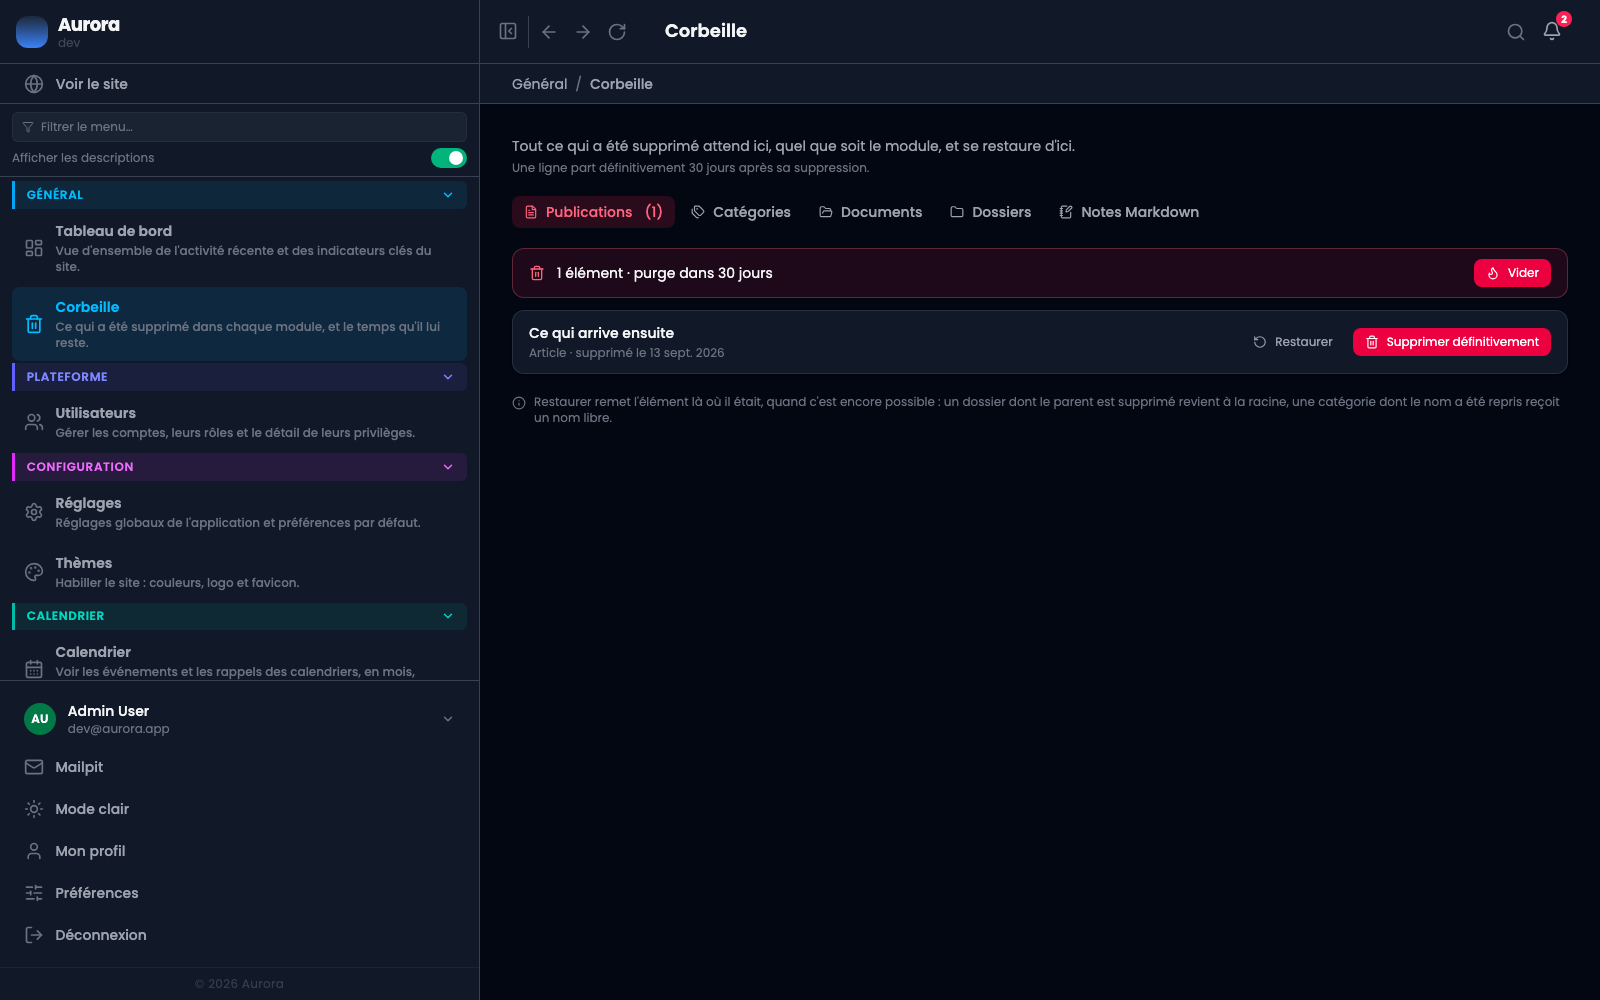
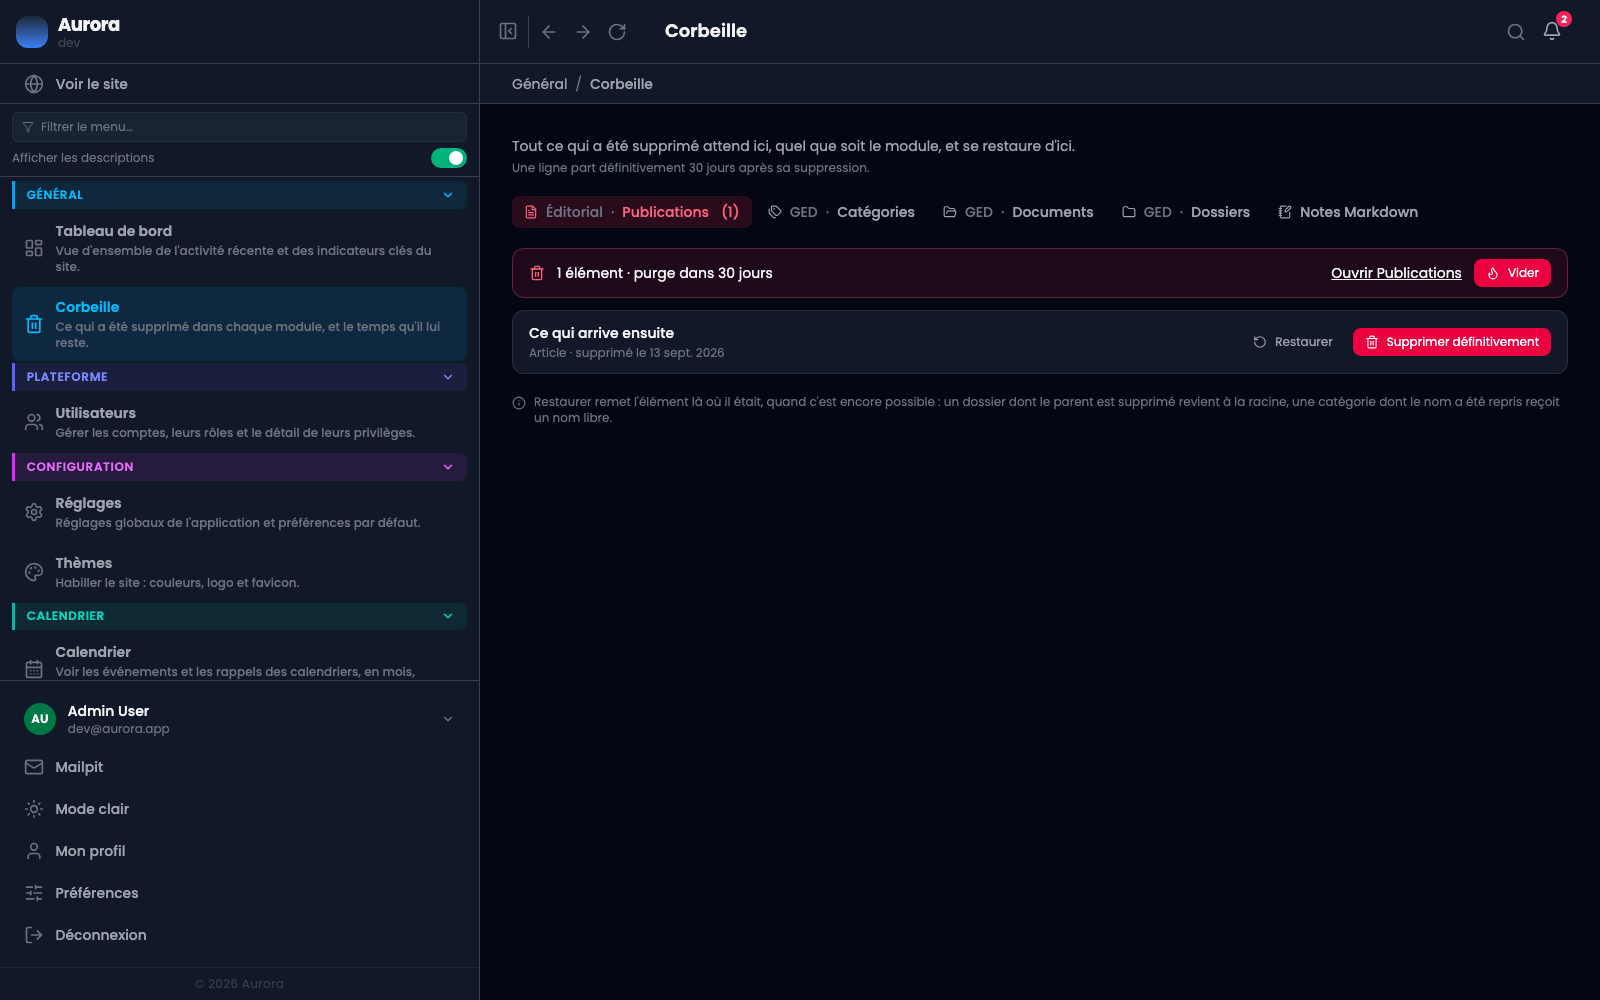
feat(trash): a tab says which module it belongs to, and links to it
Read out of context, "Dossiers" names three plausible things: the side
menu's section heading is what disambiguates it, and the trash screen
shows five trashes in a row without one. Each tab now carries its
section name, alias included, and drops it when it would repeat the
label.

The banner gained a link to the module's own list, which is the context
centralising the trash had taken away.

Changed region(s): [[0.3438, 0.186, 0.7812, 0.248], [0.8438, 0.248, 0.9062, 0.279], [0.8125, 0.186, 0.875, 0.217]]

diff --git a/src/Module/General/assets/backend/trash/TrashApp.vue b/src/Module/General/assets/backend/trash/TrashApp.vue
@@ -4,6 +4,8 @@ import { usePrivileges } from "@/shared/composables/usePrivileges.js";
 import AppTab from "@/shared/components/nav/AppTab.vue";
 import AppButton from "@/shared/components/action/AppButton.vue";
 import AppNoData from "@/shared/components/feedback/AppNoData.vue";
+import AppMessage from "@/shared/components/feedback/AppMessage.vue";
+import AppLink from "@/shared/components/nav/AppLink.vue";
 import AppModal from "@/shared/components/overlay/AppModal.vue";
 import AppModalFooter from "@/shared/components/overlay/AppModalFooter.vue";
 import { Trash2, RotateCcw, Flame, X, Info } from "lucide-vue-next";
@@ -81,7 +83,14 @@ function formatDate(value) {
                     v-on:click="select(row.key)"
                 >
                     <component :is="row.iconComponent" class="w-3.5 h-3.5" :stroke-width="2" />
-                    {{ t(row.labelKey) }}
+                    <!-- Le module avant ce qu'il contient : « Dossiers » seul
+                         pourrait nommer trois choses, et l'intitulé de section
+                         qui le désambiguïse dans le menu n'est pas ici. -->
+                    <template v-if="row.showSection">
+                        <span class="text-muted">{{ row.sectionLabel }}</span>
+                        <span class="text-muted">·</span>
+                    </template>
+                    {{ row.label }}
                     <span v-if="row.count" class="ml-1 tabular-nums">({{ row.count }})</span>
                 </AppTab>
             </nav>
@@ -99,18 +108,33 @@ function formatDate(value) {
                             </template>
                         </span>
                     </p>
+                    <!-- Dans le bandeau qui existe déjà, pas au-dessus : deux
+                         bandeaux l'un sur l'autre pour une liste de trois
+                         lignes seraient plus de mobilier que de contenu. -->
+                    <AppLink
+                        v-if="active.listPath"
+                        :href="active.listPath"
+                        class="ml-auto text-sm"
+                    >
+                        {{ t("backend.trash.open_list", { list: active.label }) }}
+                    </AppLink>
                     <AppButton
                         v-if="active.emptyTrashPath && active.count > 0 && mayAct(active)"
                         size="sm"
                         variant="danger"
-                        class="ml-auto"
+                        :class="active.listPath ? '' : 'ml-auto'"
                         v-on:click="askEmpty(active)"
                     >
                         <Flame class="w-3.5 h-3.5" :stroke-width="2" /> {{ t("backend.trash.empty") }}
                     </AppButton>
                 </div>
 
-                <AppNoData v-if="!active.items.length" :message="t('backend.trash.empty_one')" />
+                <AppMessage v-if="!active.items.length" variant="info">
+                    {{ t("backend.trash.empty_one") }}
+                    <AppLink v-if="active.listPath" :href="active.listPath" class="ml-1">
+                        {{ t("backend.trash.open_list", { list: active.label }) }}
+                    </AppLink>
+                </AppMessage>
 
                 <div v-else class="bg-surface border border-line/60 rounded-xl overflow-hidden shadow-sm divide-y divide-line/40">
                     <div

diff --git a/src/Module/General/assets/backend/trash/composables/useTrashOverview.js b/src/Module/General/assets/backend/trash/composables/useTrashOverview.js
@@ -30,11 +30,24 @@ export function useTrashOverview(props) {
     const emptying = ref(false);
 
     const rows = computed(() =>
-        trashes.value.map((trash) => ({
-            ...trash,
-            iconComponent: resolveNavIcon(trash.icon),
-            daysLeft: daysLeft(trash.oldestDeletedAt, props.retentionDays),
-        })),
+        trashes.value.map((trash) => {
+            const label = t(trash.labelKey);
+
+            return {
+                ...trash,
+                label,
+                iconComponent: resolveNavIcon(trash.icon),
+                daysLeft: daysLeft(trash.oldestDeletedAt, props.retentionDays),
+                // Le module devant ce qu'il contient, sauf quand il le répète :
+                // « Notes · Notes Markdown » dit deux fois la même chose, et le
+                // préfixe n'est là que pour lever une ambiguïté.
+                showSection:
+                    Boolean(trash.sectionLabel) &&
+                    !label
+                        .toLowerCase()
+                        .startsWith(String(trash.sectionLabel).toLowerCase()),
+            };
+        }),
     );
 
     const total = computed(() =>

diff --git a/src/Module/General/assets/backend/trash/composables/useTrashOverview.test.js b/src/Module/General/assets/backend/trash/composables/useTrashOverview.test.js
@@ -31,6 +31,8 @@ function props(overrides = {}) {
             {
                 key: "ged_documents",
                 labelKey: "backend.nav.documents",
+                sectionLabel: "GED",
+                listPath: "/backend/ged/documents",
                 icon: "folder-open",
                 count: 2,
                 oldestDeletedAt: new Date(Date.now() - 4 * DAY).toISOString(),
@@ -42,6 +44,8 @@ function props(overrides = {}) {
             {
                 key: "notes_markdown",
                 labelKey: "backend.nav.notes_markdown",
+                sectionLabel: "Notes",
+                listPath: "/backend/notes/markdown",
                 icon: "notebook-pen",
                 count: 0,
                 oldestDeletedAt: null,

diff --git a/src/Module/General/Trash/View/TrashViewBuilder.php b/src/Module/General/Trash/View/TrashViewBuilder.php
@@ -11,6 +11,7 @@ use Aurora\Core\Trash\TrashSummary;
 use Aurora\Module\Configuration\Setting\Enum\ApplicationParameterEnum;
 use Aurora\Module\Configuration\Setting\Repository\SettingRepository;
 use Aurora\Module\General\Trash\Service\TrashOverviewService;
+use Symfony\Contracts\Translation\TranslatorInterface;
 
 /**
  * The payload of the trash screen.
@@ -40,6 +41,7 @@ final readonly class TrashViewBuilder
         private ModuleAccessChecker $moduleAccessChecker,
         private SettingRepository $settingRepository,
         private PathTemplateGenerator $pathTemplates,
+        private TranslatorInterface $translator,
     ) {}
 
     /**
@@ -84,6 +86,11 @@ final readonly class TrashViewBuilder
         return [
             'key' => $summary->key,
             'labelKey' => $summary->labelKey,
+            // Translated here rather than sent as a key: the name of a section
+            // is whatever the installation renamed it to, and that alias lives
+            // in a setting the screen has no business reading.
+            'sectionLabel' => $this->sectionLabel($summary->sectionId),
+            'listPath' => $this->pathFor($summary->listRoute, withId: false),
             'icon' => $summary->icon,
             'count' => $summary->count,
             'oldestDeletedAt' => $summary->oldestDeletedAt?->format(DATE_ATOM),
@@ -108,6 +115,27 @@ final readonly class TrashViewBuilder
      * routes declare `id` as `\d+`, and generating one straight refuses while
      * the page is rendering - a 500 in place of the screen.
      */
+    /**
+     * What the side menu calls this section, alias included.
+     *
+     * The tab needs it because it is read out of context: under the menu's own
+     * heading "Dossiers" is unambiguous, and on a screen showing five trashes
+     * in a row it is not.
+     */
+    private function sectionLabel(string $sectionId): string
+    {
+        $aliases = json_decode(
+            $this->settingRepository->get(ApplicationParameterEnum::NavSectionAliases->value, '{}') ?? '{}',
+            true,
+        );
+
+        if (is_array($aliases) && isset($aliases[$sectionId]) && is_string($aliases[$sectionId]) && '' !== $aliases[$sectionId]) {
+            return $aliases[$sectionId];
+        }
+
+        return $this->translator->trans('backend.nav.sections.'.$sectionId);
+    }
+
     private function pathFor(?string $route, bool $withId = true): ?string
     {
         if (null === $route) {

diff --git a/tests/Integration/Module/General/TrashOverviewPageTest.php b/tests/Integration/Module/General/TrashOverviewPageTest.php
@@ -51,6 +51,41 @@ final class TrashOverviewPageTest extends IntegrationTestCase
         self::assertContains('notes_markdown', $keys);
     }
 
+    /**
+     * Each tab says which module it is talking about, and how to get there.
+     *
+     * "Dossiers" alone names three plausible things once the side menu's own
+     * heading is gone, and a reader who has just restored something wants the
+     * list it went back to.
+     */
+    public function testEachTabNamesItsModuleAndLinksToIt(): void
+    {
+        $rows = [];
+        foreach ($this->rowsByKey() as $key => $row) {
+            $rows[$key] = [$row['sectionLabel'], $row['listPath']];
+        }
+
+        self::assertSame(['GED', '/backend/ged/documents'], $rows['ged_folders']);
+        self::assertSame(['Éditorial', '/backend/editorial/posts'], $rows['editorial_posts']);
+        self::assertSame('Notes', $rows['notes_markdown'][0]);
+    }
+
+    /**
+     * @return array<string, array<string, mixed>>
+     */
+    private function rowsByKey(): array
+    {
+        $this->client->request('GET', '/backend/trash');
+        self::assertResponseIsSuccessful();
+
+        $rows = [];
+        foreach ($this->trashPayload() as $row) {
+            $rows[$row['key']] = $row;
+        }
+
+        return $rows;
+    }
+
     public function testSomethingDeletedIsCountedWithTheDateItFell(): void
     {
         $container = static::getContainer();

diff --git a/src/Core/Trash/TrashSummary.php b/src/Core/Trash/TrashSummary.php
@@ -17,6 +17,11 @@ use DateTimeImmutable;
  * The action routes are the module's own. The screen does not know how to
  * restore a document, and must not: it posts to the endpoint the module
  * already exposes, which is where the rules and the privileges live.
+ *
+ * `sectionId` is there because a tab is read out of context. In the side menu
+ * "Dossiers" sits under an intitulé that says which module it belongs to; on
+ * one screen showing five trashes side by side that heading is gone, and the
+ * word alone could name three different things.
  */
 final readonly class TrashSummary
 {
@@ -35,6 +40,7 @@ final readonly class TrashSummary
     public function __construct(
         public string $key,
         public string $labelKey,
+        public string $sectionId,
         public string $icon,
         public int $count,
         public array $items = [],
@@ -43,5 +49,6 @@ final readonly class TrashSummary
         public ?string $forceDeleteRoute = null,
         public ?string $emptyTrashRoute = null,
         public ?string $actionPrivilege = null,
+        public ?string $listRoute = null,
     ) {}
 }

diff --git a/src/Module/Ged/Trash/FoldersTrashSource.php b/src/Module/Ged/Trash/FoldersTrashSource.php
@@ -38,6 +38,7 @@ final readonly class FoldersTrashSource implements TrashSourceInterface
         return new TrashSummary(
             key: 'ged_folders',
             labelKey: 'backend.nav.ged_folders',
+            sectionId: 'ged',
             icon: 'folder',
             count: count($roots),
             items: array_map($this->present(...), array_slice($roots, 0, $limit)),
@@ -46,6 +47,9 @@ final readonly class FoldersTrashSource implements TrashSourceInterface
             forceDeleteRoute: 'backend_ged_folders_force_delete',
             emptyTrashRoute: 'backend_ged_folders_empty_trash',
             actionPrivilege: 'ged.folders.manage',
+            // Les dossiers n'ont pas d'écran à eux : leur arborescence est le
+            // panneau de la médiathèque, et c'est là qu'on va les revoir.
+            listRoute: 'backend_ged_documents',
         );
     }
 

diff --git a/src/Module/Editorial/Trash/PostsTrashSource.php b/src/Module/Editorial/Trash/PostsTrashSource.php
@@ -52,6 +52,7 @@ final readonly class PostsTrashSource implements TrashSourceInterface
         return new TrashSummary(
             key: 'editorial_posts',
             labelKey: 'backend.nav.posts',
+            sectionId: 'editorial',
             icon: 'file-text',
             count: $page['total'],
             items: array_map(fn (PostInterface $post): TrashItem => $this->present($post, $locale), $page['items']),
@@ -60,6 +61,7 @@ final readonly class PostsTrashSource implements TrashSourceInterface
             forceDeleteRoute: 'backend_editorial_posts_force_delete',
             emptyTrashRoute: 'backend_editorial_posts_empty_trash',
             actionPrivilege: 'editorial.posts.delete',
+            listRoute: 'backend_editorial_posts',
         );
     }
 

diff --git a/src/Module/Ged/Trash/CategoriesTrashSource.php b/src/Module/Ged/Trash/CategoriesTrashSource.php
@@ -31,6 +31,7 @@ final readonly class CategoriesTrashSource implements TrashSourceInterface
         return new TrashSummary(
             key: 'ged_categories',
             labelKey: 'backend.nav.ged_categories',
+            sectionId: 'ged',
             icon: 'tags',
             count: count($trashed),
             items: array_map($this->present(...), array_slice($trashed, 0, $limit)),
@@ -39,6 +40,7 @@ final readonly class CategoriesTrashSource implements TrashSourceInterface
             forceDeleteRoute: 'backend_ged_categories_force_delete',
             emptyTrashRoute: 'backend_ged_categories_empty_trash',
             actionPrivilege: 'ged.categories.delete',
+            listRoute: 'backend_ged_categories',
         );
     }
 

diff --git a/src/Module/Notes/Trash/NotesTrashSource.php b/src/Module/Notes/Trash/NotesTrashSource.php
@@ -47,6 +47,7 @@ final readonly class NotesTrashSource implements TrashSourceInterface
         return new TrashSummary(
             key: 'notes_markdown',
             labelKey: 'backend.nav.notes_markdown',
+            sectionId: 'notes',
             icon: 'notebook-pen',
             count: count($roots),
             items: array_map($this->present(...), array_slice($roots, 0, $limit)),
@@ -57,6 +58,7 @@ final readonly class NotesTrashSource implements TrashSourceInterface
             forceDeleteRoute: 'backend_notes_markdown_force_delete',
             emptyTrashRoute: 'backend_notes_markdown_empty_trash',
             actionPrivilege: 'notes.markdown.use',
+            listRoute: 'backend_notes_markdown',
         );
     }
 

diff --git a/src/Module/Ged/Trash/DocumentsTrashSource.php b/src/Module/Ged/Trash/DocumentsTrashSource.php
@@ -31,6 +31,7 @@ final readonly class DocumentsTrashSource implements TrashSourceInterface
         return new TrashSummary(
             key: 'ged_documents',
             labelKey: 'backend.nav.documents',
+            sectionId: 'ged',
             icon: 'folder-open',
             count: $page['total'],
             items: array_map($this->present(...), $page['items']),
@@ -39,6 +40,7 @@ final readonly class DocumentsTrashSource implements TrashSourceInterface
             forceDeleteRoute: 'backend_ged_documents_force_delete',
             emptyTrashRoute: 'backend_ged_documents_empty_trash',
             actionPrivilege: 'ged.documents.delete',
+            listRoute: 'backend_ged_documents',
         );
     }
 

diff --git a/tests/Unit/Module/General/TrashOverviewServiceTest.php b/tests/Unit/Module/General/TrashOverviewServiceTest.php
@@ -80,7 +80,7 @@ final class TrashOverviewServiceTest extends TestCase
 
             public function getSummary(int $limit): TrashSummary
             {
-                return new TrashSummary($this->key, 'backend.nav.documents', 'folder-open', $this->count);
+                return new TrashSummary($this->key, 'backend.nav.documents', 'ged', 'folder-open', $this->count);
             }
         };
     }
